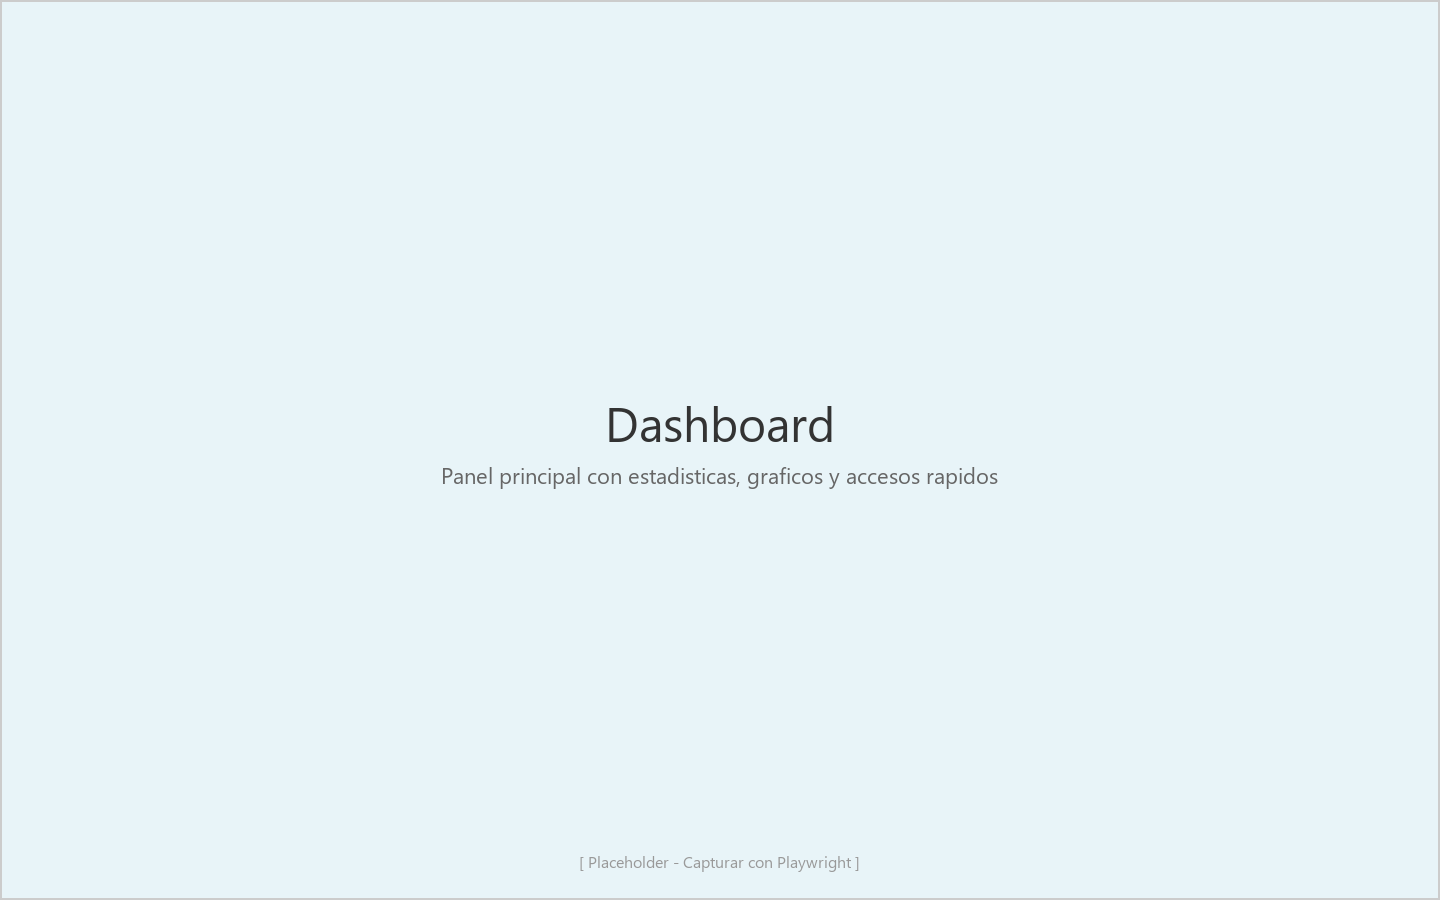
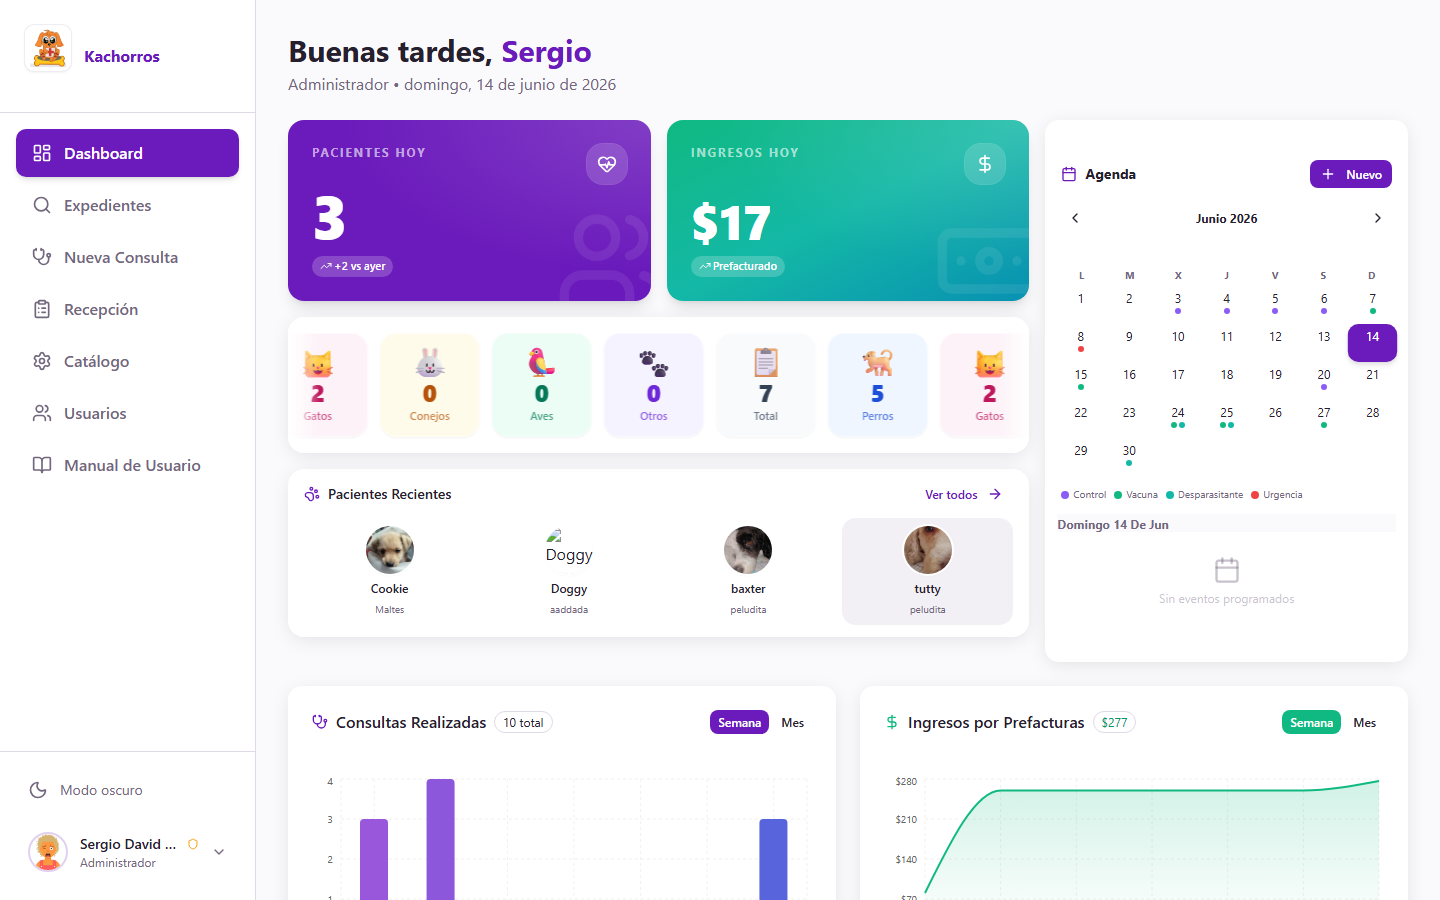
assets(manual): replace placeholders with real Playwright screenshots at 1440x900

diff --git a/scripts/capture_manual_screenshots.py b/scripts/capture_manual_screenshots.py
@@ -24,9 +24,8 @@ SCREENSHOTS = [
 VIEWPORT = {"width": 1440, "height": 900}
 BASE_URL = "http://localhost:5173"
 
-# -- Cambia estas credenciales por unas validas en tu Supabase --
-EMAIL = "admin@kachorros.com"
-PASSWORD = "123456"
+EMAIL = "hg23008@ues.edu.sv"
+PASSWORD = "sdavidhg15"
 
 
 def login(page):
